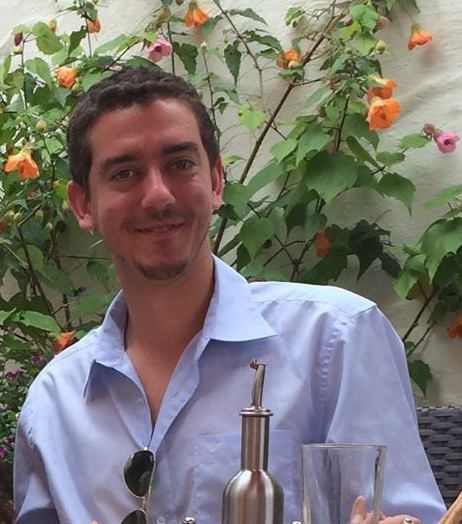
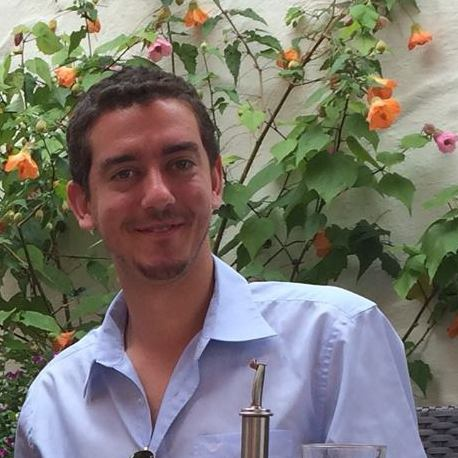
ben pic

diff --git a/views/main.html b/views/main.html
@@ -315,7 +315,7 @@
 						
 						<div class="col-md-2 col-sm-4">
 							<div class="team-1-member">
-								<img alt="Team Member" class="background-image" src="/images/team-small-5.png">
+								<img alt="Team Member" class="background-image" src="/images/ben_head.jpeg">
 								<h5>Ben Limonchick</h5>
 								<span>Co-Founder &amp; Senior Partner</span><br>
 								<ul class="social-icons">
